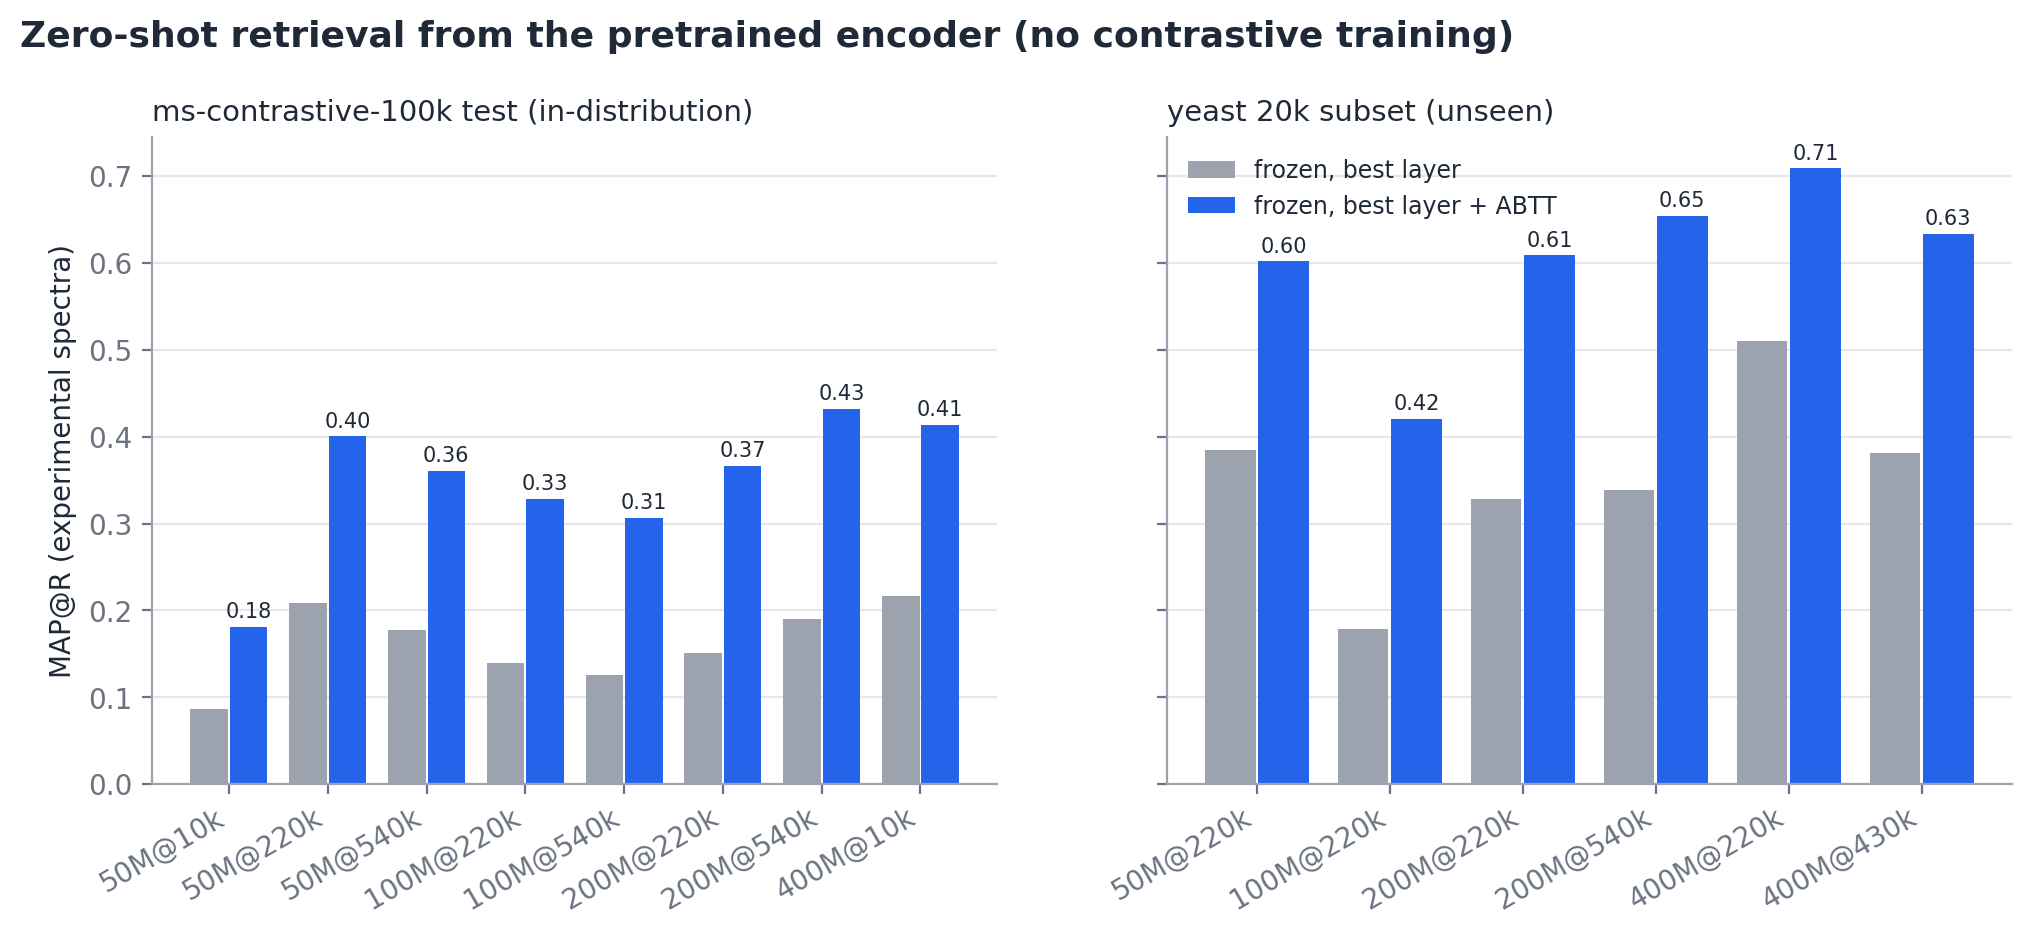
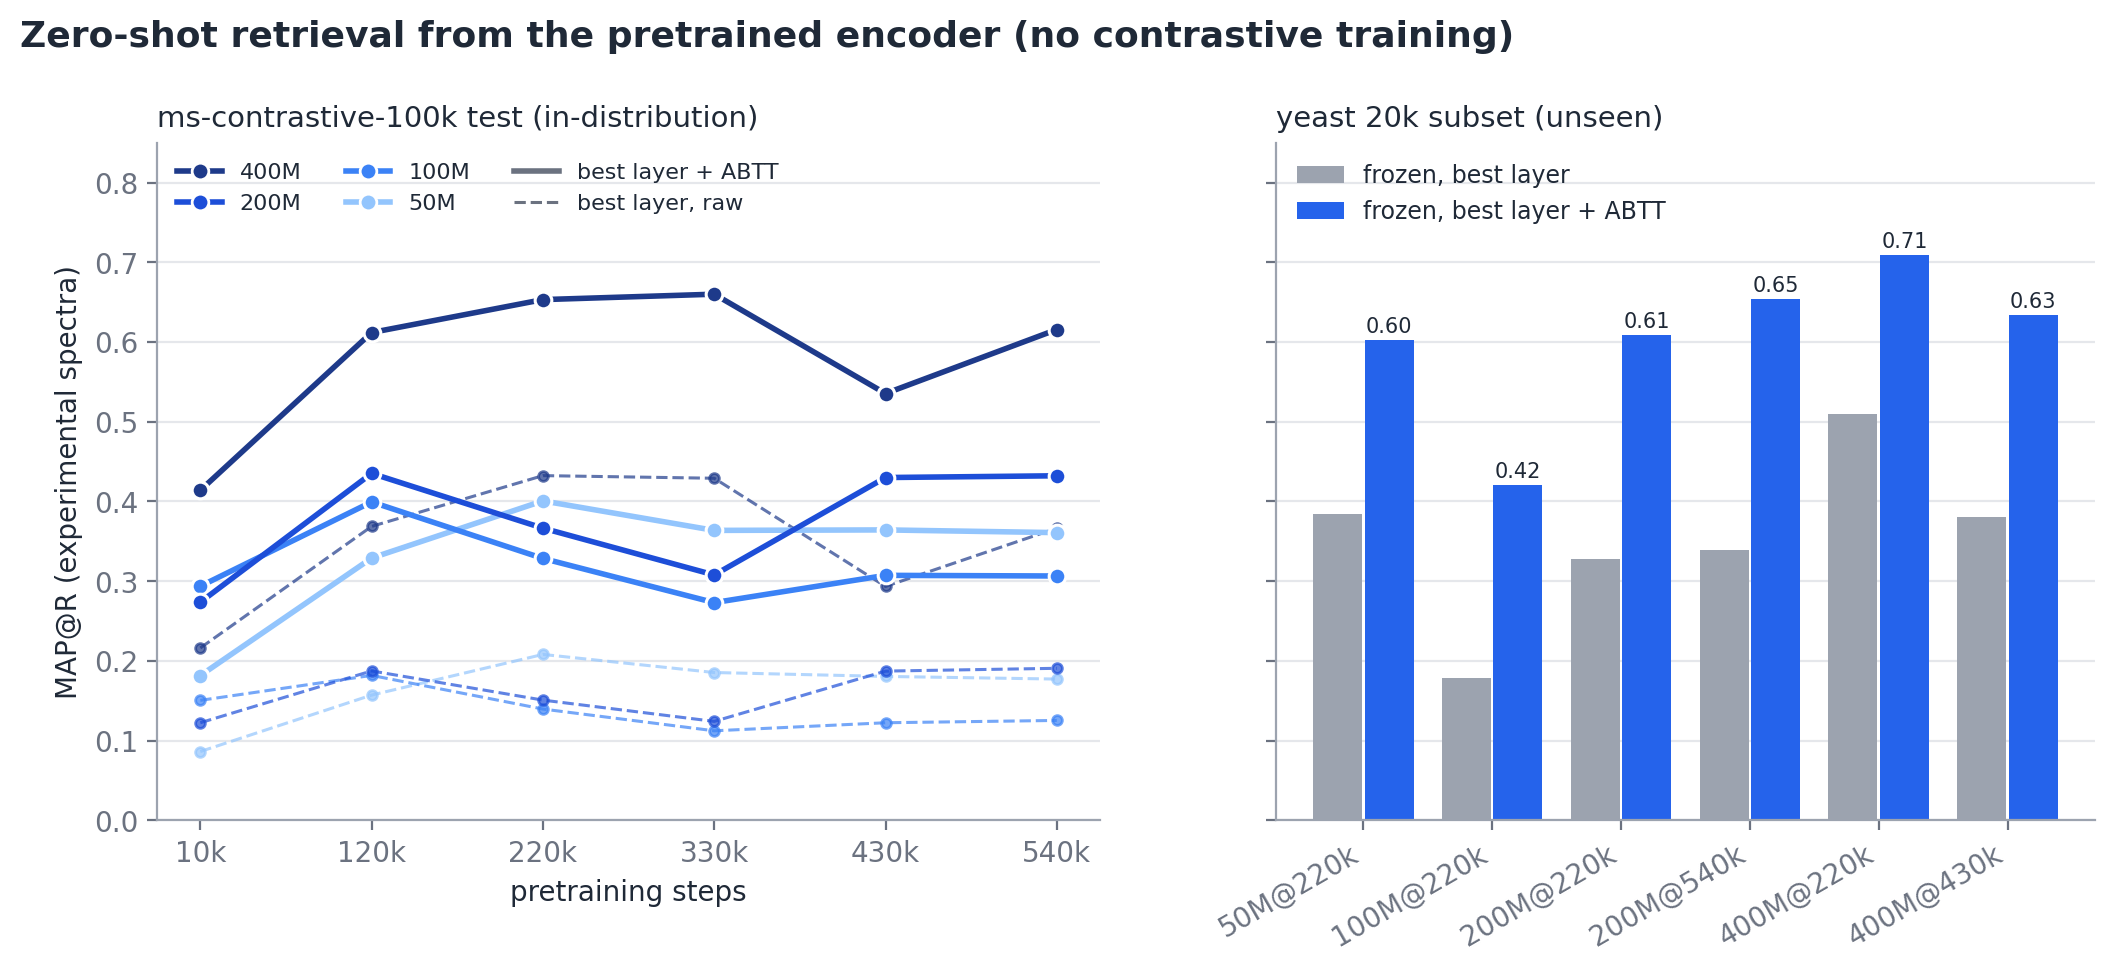
Zero-shot: summary rebuilt from all 24 encoders; C_zeroshot lines; mouse frozen rows; READMEs
Claude-Session: https://claude.ai/code/session_01ATgkXx1oRRqvzB3G8wYeta

diff --git a/sweeps/package_contrastive.py b/sweeps/package_contrastive.py
@@ -186,6 +186,17 @@ def zeroshot_rows():
                             raw_final=float(r["raw_final"]), raw_best_layer=float(r["raw_best_block"]),
                             abtt_best=float(r["abtt_best"]), abtt_D=r["abtt_best_D"], abtt_layer=r["abtt_best_layer"],
                             abtt_fit="ms-contrastive-100k train"))
+    # mouse 20k: only the two best in-distribution/yeast encoders were run (400M@220k, 400M@330k)
+    for f in sorted(RES.glob("mouse20k_zeroshot_*/zs_*.json")):
+        d = json.loads(f.read_text())
+        sc, ck = re.match(r"zs_0*(\d+m)_ck0*(\d+k)", f.stem).groups()
+        tr = d["abtt"]["train"]
+        best = max(((D, lay, v["experimental/MAP@R"]) for D, L in tr.items() if D != "center"
+                    for lay, v in L.items()), key=lambda t: t[2])
+        out.append(dict(benchmark="mouse-20k", encoder=f"{sc}@{ck}",
+                        raw_final=d["layers"]["final"]["experimental/MAP@R"],
+                        raw_best_layer=max(v["experimental/MAP@R"] for v in d["layers"].values()),
+                        abtt_best=best[2], abtt_D=best[0], abtt_layer=best[1], abtt_fit="ms-contrastive-100k train"))
     for f in sorted((RES / "nine20k_zeroshot").glob("zs_*.json")):
         d = json.loads(f.read_text())
         sc, ck = re.match(r"zs_0*(\d+m)_ck0*(\d+k)", f.stem).groups()
@@ -201,25 +212,12 @@ def zeroshot_rows():
 
 
 def fig_zeroshot(zs):
-    with plt.rc_context(STYLE):
-        fig, axes = plt.subplots(1, 2, figsize=(12, 4.2), sharey=True)
-        for ax, bench, title in ((axes[0], "ms-contrastive-100k", "ms-contrastive-100k test (in-distribution)"),
-                                 (axes[1], "yeast-20k", "yeast 20k subset (unseen)")):
-            ax.yaxis.grid(True, color=GRIDC, lw=0.8); ax.set_axisbelow(True)
-            rs = {r["encoder"]: r for r in zs if r["benchmark"] == bench}
-            enc = sorted(rs, key=lambda e: (int(e.split("m@")[0]), int(e.split("@")[1][:-1])))
-            x = np.arange(len(enc))
-            ax.bar(x - 0.2, [rs[e]["raw_best_layer"] for e in enc], 0.38, color=BINNED, label="frozen, best layer", zorder=2)
-            ax.bar(x + 0.2, [rs[e]["abtt_best"] for e in enc], 0.38, color=OURS, label="frozen, best layer + ABTT", zorder=2)
-            for i, e in enumerate(enc):
-                ax.text(i + 0.2, rs[e]["abtt_best"] + 0.01, f"{rs[e]['abtt_best']:.2f}", ha="center", fontsize=7.5)
-            ax.set_xticks(x); ax.set_xticklabels([e.upper().replace("K", "k") for e in enc], rotation=30, ha="right")
-            ax.set_title(title, loc="left", fontsize=10.5)
-        axes[0].set_ylabel("MAP@R (experimental spectra)")
-        axes[1].legend(frameon=False, fontsize=8.5, loc="upper left")
-        fig.suptitle("Zero-shot retrieval from the pretrained encoder (no contrastive training)", x=0.07, ha="left",
-                     fontsize=13, fontweight="bold", y=1.02)
-        fig.savefig(FIG / "C_zeroshot.png"); plt.close(fig)
+    """Drawn by the paper folder's standalone script from the exported CSV (so the two cannot differ)."""
+    import runpy, shutil
+    out = REPO / "paper" / "experiments" / "spectrum_embedding" / "0_shot"
+    shutil.copy(FIG / "C_zeroshot.csv", out / "C_zeroshot.csv")
+    runpy.run_path(str(out / "plot_zeroshot.py"), run_name="__main__")
+    shutil.copy(out / "C_zeroshot.png", FIG / "C_zeroshot.png")
 
 
 def fig_transfer(rows, zs, panels=None, baselines=True, out="C_transfer.png",
@@ -375,7 +373,7 @@ def export_plot_data(rows, zs, ab):
             out.append(dict(benchmark=b, model="frozen + ABTT (best encoder)", scale=sc, pretrain_ckpt=ck,
                             finetune_stage="", seed="", map_at_r=z["abtt_best"], hit_at_1="",
                             note=f"frozen encoder, layer {z['abtt_layer']}, ABTT D={z['abtt_D']} (fit: {z['abtt_fit']}); "
-                                 f"encoder/layer/D chosen on this benchmark"))
+                                 f"best of {len(zb)} frozen encoders, encoder/layer/D chosen on this benchmark"))
         return out
     out = ours("ms-contrastive-100k") + ours("yeast-20k")
     write_plot_csv("C_transfer_ours.csv", out)
@@ -429,7 +427,7 @@ def main():
         for r in ab:
             w.writerow({k: (f"{v:.5f}" if isinstance(v, float) else v) for k, v in r.items()})
     print("ablation rows", len(ab))
-    fig_benchmarks(rows); fig_pretraining(rows); fig_zeroshot(zs); fig_ablation(ab)
+    fig_benchmarks(rows); fig_pretraining(rows); fig_ablation(ab)
     # C_transfer: only the benchmarks every method was scored on (the 8-species OOD validation had no GLEAMS/frozen)
     fig_transfer(rows, zs, panels=[("ms-contrastive-100k", "ms-contrastive-100k test\n(in-distribution)", 8),
                                    ("yeast-20k", "yeast 20k subset\n(unseen)", 8),
@@ -439,6 +437,7 @@ def main():
                                    ("yeast-20k", "yeast 20k subset\n(unseen)", 1)],
                  baselines=False, out="C_transfer_ours.png", title="Our models in-distribution vs unseen")
     export_plot_data(rows, zs, ab)
+    fig_zeroshot(zs)                      # after the export: it plots the exported CSV
     print(f"rows {len(rows)}, zero-shot rows {len(zs)}")
     agg = defaultdict(list)
     for r in rows:

diff --git a/paper/experiments/spectrum_embedding/0_shot/plot_zeroshot.py b/paper/experiments/spectrum_embedding/0_shot/plot_zeroshot.py
@@ -2,8 +2,10 @@
 
     python plot_zeroshot.py      # needs matplotlib + numpy
 
-Per frozen pretrained encoder (size@pretraining step): MAP@R of the best layer, raw vs after
-all-but-the-top (ABTT). Two panels: ms-contrastive-100k test and the unseen yeast 20k subset.
+Frozen pretrained encoders, MAP@R of the best layer, raw vs after all-but-the-top (ABTT).
+Left: every encoder on ms-contrastive-100k test (4 sizes x 6 pretraining checkpoints), one line per size
+(solid: best layer + ABTT, dashed: best layer raw). Right: the encoders scored on the unseen yeast 20k
+subset, as bars.
 """
 import csv
 from pathlib import Path
@@ -20,26 +22,48 @@ STYLE = {"font.family": "DejaVu Sans", "font.size": 10, "axes.edgecolor": "#9ca3
          "axes.spines.top": False, "axes.spines.right": False, "savefig.bbox": "tight", "figure.dpi": 200}
 
 
+SIZE_COLS = {"50m": "#93c5fd", "100m": "#3b82f6", "200m": "#1d4ed8", "400m": "#1e3a8a"}
+CKPTS = ["10k", "120k", "220k", "330k", "430k", "540k"]
+
+
 def main():
+    from matplotlib.lines import Line2D
     rows = list(csv.DictReader(open(HERE / "C_zeroshot.csv")))
     key = lambda e: (int(e.split("m@")[0]), int(e.split("@")[1][:-1]))
     with plt.rc_context(STYLE):
-        fig, axes = plt.subplots(1, 2, figsize=(12, 4.2), sharey=True)
-        for ax, bench, title in ((axes[0], "ms-contrastive-100k", "ms-contrastive-100k test (in-distribution)"),
-                                 (axes[1], "yeast-20k", "yeast 20k subset (unseen)")):
-            ax.yaxis.grid(True, color=GRIDC, lw=0.8); ax.set_axisbelow(True)
-            rs = {r["encoder"]: r for r in rows if r["benchmark"] == bench}
-            enc = sorted(rs, key=key); x = np.arange(len(enc))
-            ax.bar(x - 0.2, [float(rs[e]["raw_best_layer"]) for e in enc], 0.38, color="#9ca3af",
-                   label="frozen, best layer", zorder=2)
-            ax.bar(x + 0.2, [float(rs[e]["abtt_best"]) for e in enc], 0.38, color="#2563eb",
-                   label="frozen, best layer + ABTT", zorder=2)
-            for i, e in enumerate(enc):
-                ax.text(i + 0.2, float(rs[e]["abtt_best"]) + 0.01, f"{float(rs[e]['abtt_best']):.2f}", ha="center", fontsize=7.5)
-            ax.set_xticks(x); ax.set_xticklabels([e.upper().replace("K", "k") for e in enc], rotation=30, ha="right")
-            ax.set_title(title, loc="left", fontsize=10.5)
-        axes[0].set_ylabel("MAP@R (experimental spectra)")
-        axes[1].legend(frameon=False, fontsize=8.5, loc="upper left")
+        fig, axes = plt.subplots(1, 2, figsize=(12.5, 4.4), sharey=True, gridspec_kw={"width_ratios": [1.15, 1]})
+        ax = axes[0]
+        ax.yaxis.grid(True, color=GRIDC, lw=0.8); ax.set_axisbelow(True)
+        rs = [r for r in rows if r["benchmark"] == "ms-contrastive-100k"]
+        for sc in ["50m", "100m", "200m", "400m"]:
+            pts = sorted((CKPTS.index(r["encoder"].split("@")[1]), r) for r in rs if r["encoder"].split("@")[0] == sc)
+            x = [p[0] for p in pts]
+            ax.plot(x, [float(p[1]["abtt_best"]) for p in pts], "-o", color=SIZE_COLS[sc], lw=2, ms=6,
+                    mec="white", mew=1.1, zorder=3)
+            ax.plot(x, [float(p[1]["raw_best_layer"]) for p in pts], "--o", color=SIZE_COLS[sc], lw=1.1, ms=3.5,
+                    alpha=0.7, zorder=2)
+        ax.set_xticks(range(len(CKPTS))); ax.set_xticklabels(CKPTS); ax.set_xlabel("pretraining steps")
+        ax.set_title("ms-contrastive-100k test (in-distribution)", loc="left", fontsize=10.5)
+        ax.set_ylabel("MAP@R (experimental spectra)")
+        h = [Line2D([], [], color=SIZE_COLS[s], lw=2, marker="o", ms=6, mec="white", label=s.upper())
+             for s in ["400m", "200m", "100m", "50m"]]
+        h += [Line2D([], [], color=MUTED, lw=2, label="best layer + ABTT"),
+              Line2D([], [], color=MUTED, lw=1.1, ls="--", label="best layer, raw")]
+        ax.legend(handles=h, frameon=False, fontsize=8, loc="upper left", ncol=3)
+        ax.set_ylim(0, 0.85)
+        ax = axes[1]
+        ax.yaxis.grid(True, color=GRIDC, lw=0.8); ax.set_axisbelow(True)
+        yr = {r["encoder"]: r for r in rows if r["benchmark"] == "yeast-20k"}
+        enc = sorted(yr, key=key); x = np.arange(len(enc))
+        ax.bar(x - 0.2, [float(yr[e]["raw_best_layer"]) for e in enc], 0.38, color="#9ca3af",
+               label="frozen, best layer", zorder=2)
+        ax.bar(x + 0.2, [float(yr[e]["abtt_best"]) for e in enc], 0.38, color="#2563eb",
+               label="frozen, best layer + ABTT", zorder=2)
+        for i, e in enumerate(enc):
+            ax.text(i + 0.2, float(yr[e]["abtt_best"]) + 0.01, f"{float(yr[e]['abtt_best']):.2f}", ha="center", fontsize=7.5)
+        ax.set_xticks(x); ax.set_xticklabels([e.upper().replace("K", "k") for e in enc], rotation=30, ha="right")
+        ax.set_title("yeast 20k subset (unseen)", loc="left", fontsize=10.5)
+        ax.legend(frameon=False, fontsize=8.5, loc="upper left")
         fig.suptitle("Zero-shot retrieval from the pretrained encoder (no contrastive training)", x=0.07, ha="left",
                      fontsize=13, fontweight="bold", y=1.02)
         fig.savefig(HERE / "C_zeroshot.png"); plt.close(fig)

diff --git a/sweeps/summarise_zeroshot.py b/sweeps/summarise_zeroshot.py
@@ -1,0 +1,26 @@
+"""Rebuild results/finetune/contrastive/zeroshot-layers-abtt/summary.csv from every zs_*.json there
+(one row per frozen encoder; ABTT numbers from the TRAIN fit). Replaces the 8-encoder summary written
+before the 400M/200M reruns finished.
+
+    python3 sweeps/summarise_zeroshot.py
+"""
+import glob, json, os, re
+
+D = "results/finetune/contrastive/zeroshot-layers-abtt"
+rows = []
+for f in glob.glob(f"{D}/zs_*.json"):
+    d = json.load(open(f))
+    sc, ck = re.match(r"zs_0*(\d+m)_ck(\d+k)", os.path.basename(f)).groups()
+    lay = {k: v["experimental/MAP@R"] for k, v in d["layers"].items()}
+    tr = d["abtt"]["train"]
+    cells = [(D_, L, v["experimental/MAP@R"]) for D_, Ls in tr.items() if D_ != "center" for L, v in Ls.items()]
+    best = max(cells, key=lambda t: t[2])
+    abtt_final = max(t[2] for t in cells if t[1] == "final")
+    rb = max(lay, key=lay.get)
+    rows.append((int(sc[:-1]), int(ck[:-1]), f"{sc},{ck},{lay['final']:.4f},{lay[rb]:.4f},{rb},{abtt_final:.4f},"
+                 f"{best[2]:.4f},{best[0]},{best[1]}"))
+rows.sort()
+with open(f"{D}/summary.csv", "w") as fh:
+    fh.write("scale,ckpt,raw_final,raw_best_block,best_block,abtt_final,abtt_best,abtt_best_D,abtt_best_layer\n")
+    fh.write("\n".join(r[2] for r in rows) + "\n")
+print(len(rows), "encoders ->", f"{D}/summary.csv")

diff --git a/paper/experiments/spectrum_embedding/0_shot/README.md b/paper/experiments/spectrum_embedding/0_shot/README.md
@@ -7,8 +7,8 @@ encoder, optionally post-process the embeddings, and retrieve by cosine similari
 
 | file | content |
 |---|---|
-| `C_zeroshot.png` | MAP@R per frozen encoder (size@pretraining steps): best layer raw vs best layer + ABTT |
-| `C_zeroshot.csv` | the plotted values plus the chosen layer and number of components |
+| `C_zeroshot.png` | left: all 24 frozen encoders on ms-contrastive-100k test, MAP@R vs pretraining steps, one line per size (solid: best layer + ABTT, dashed: best layer raw); right: the 6 encoders scored on yeast 20k, raw vs ABTT |
+| `C_zeroshot.csv` | the plotted values plus the chosen layer and number of components; also the two frozen 400M encoders scored on mouse 20k (used in `../C_transfer`, not plotted here) |
 | `plot_zeroshot.py` | regenerates the figure from the CSV (`python plot_zeroshot.py`; matplotlib + numpy) |
 
 CSV columns: `benchmark`, `encoder`, `raw_final` (last layer, raw), `raw_best_layer` (best layer, raw),
@@ -27,16 +27,24 @@ ABTT statistics were fitted on).
 
 ## Results
 
-- ABTT roughly doubles retrieval for every encoder (in-distribution best 0.43, 200M@540k; yeast best
-  0.71, 400M@220k).
+- ABTT roughly doubles retrieval for every encoder. In-distribution the best is 0.66 (400M@330k); every
+  400M checkpoint from 120k on (0.54-0.66) is above every smaller encoder (at most 0.44). Yeast best:
+  0.71 (400M@220k).
+- Frozen retrieval does not rise steadily with pretraining: most sizes peak at 120k-330k and dip later
+  (400M@430k 0.54).
 - On unseen yeast the frozen 400M encoder with ABTT (0.71) beats every fine-tuned model we have there
   (at most 0.66), though not GLEAMS (0.77, see `../benchmarks/`).
 
 ## Caveats
 
-- The layer and D shown for each encoder are the best **on that benchmark's test set**, so the ABTT
-  bars are upper bounds; a fair number would pick them on a validation set.
+- The layer and D shown for each encoder are the best **on that benchmark's test set**, so in principle
+  upper bounds. A validation pass (choose on ms-contrastive-100k validation, report test) was completed
+  for three encoders (50M@220k/330k/540k): validation picked the same layer and D as test every time,
+  so for those the reported numbers are unchanged. The remaining encoders were not re-checked.
+- Updated 2026-09-26: the in-distribution panel previously showed 8 encoders from an early summary
+  (best 0.43, 200M@540k); it now shows all 24.
 - The two panels cover different encoder sets (what was evaluated on each benchmark).
 
-Provenance: msdelta repository, `sweeps/package_contrastive.py` (from `results/finetune/contrastive/zeroshot-layers-abtt/`
-and `results/finetune/contrastive/nine20k_zeroshot/`).
+Provenance: msdelta repository, `sweeps/package_contrastive.py` (from `results/finetune/contrastive/zeroshot-layers-abtt/`,
+summarised by `sweeps/summarise_zeroshot.py`, `results/finetune/contrastive/nine20k_zeroshot/` and
+`results/finetune/contrastive/mouse20k_zeroshot_*/`).

diff --git a/paper/experiments/spectrum_embedding/README.md b/paper/experiments/spectrum_embedding/README.md
@@ -32,14 +32,15 @@ charge) embed close together; evaluated by spectrum-to-spectrum retrieval.
 | fine-tuned 50M | same, except stage 1 ran 24 epochs | 0.839 | 0.523 |
 | replicate corpus only 400M | the 400M stage-1 model alone (12 epochs); 3 seeds (1 on yeast) | 0.713 | 0.520 |
 | replicate corpus only 50M | the 50M stage-1 model alone (24 epochs); 3 seeds (1 on yeast) | 0.656 | 0.499 |
-| frozen + ABTT (best encoder) | no contrastive training; see `0_shot/` | 0.432 (200M@540k) | 0.709 (400M@220k) |
+| frozen + ABTT (best encoder) | no contrastive training; see `0_shot/` | 0.660 (400M@330k) | 0.709 (400M@220k) |
 
 - The fine-tuned models are one seed each: the end-of-epoch seed with the best **validation** MAP@R
   on ms-contrastive-100k (400M: seed 0, 0.8639 vs 0.8629 / 0.8634; 50M: seed 1, 0.8357 vs 0.8314 / 0.8342).
   Another 400M seed scores higher on yeast (seed 1: 0.656); it was not selected because that would use
   the test set.
-- Frozen + ABTT: the encoder, layer and number of removed components are the best on each benchmark,
-  so these bars are upper bounds for that method.
+- Frozen + ABTT: the encoder, layer and number of removed components are the best on each benchmark
+  (of 24 encoders in-distribution, 6 on yeast), so in principle upper bounds; where checked (three 50M
+  encoders), validation selection picked the same layer and D.
 - Reading: fine-tuning gives the best in-distribution retrieval by a wide margin, but on unseen data
   the frozen encoder with ABTT transfers better than any fine-tuned model.
 
@@ -61,14 +62,15 @@ baselines, in-distribution and on two unseen nine-species subsets.
 | Iona spectrum encoder 50M | 0.839 | 0.523 | 0.820 |
 | Iona spectrum encoder 400M (replicate corpus only) | 0.713 | 0.520 | 0.787 |
 | Iona spectrum encoder 50M (replicate corpus only) | 0.656 | 0.499 | 0.757 |
-| frozen + ABTT (best encoder) | 0.432 | 0.709 | not run |
+| frozen + ABTT (best encoder) | 0.660 | 0.709 | 0.703 |
 | GLEAMS | 0.646 | 0.770 | 0.834 |
 | binned cosine (best width) | 0.729 | **0.916** | **0.916** |
 
 - **Mouse 20k**: the Mus musculus spectra of the Noble lab nine-species benchmark (Zenodo
   10.5281/zenodo.12819175, `nine-species-balanced.zip`; Tide + Percolator labels at 1% FDR), groups of
   peptide + charge with >= 2 spectra capped at 20, whole groups sampled (seed 0) to 20,003 spectra in
-  4,026 groups; no spectrum exceeds 512 peaks. Frozen + ABTT was not run on it.
+  4,026 groups; no spectrum exceeds 512 peaks. Frozen + ABTT on mouse is the better of the two encoders
+  tried there (400M@330k and 400M@220k, the best in-distribution and on yeast), not of all 24.
 - Reading: in-distribution the Iona encoders lead every baseline. On unseen yeast both baselines are
   ahead of every model of ours; on unseen mouse the Iona 400M encoder is level with GLEAMS (0.846 vs
   0.834) and binned cosine leads (0.916).
